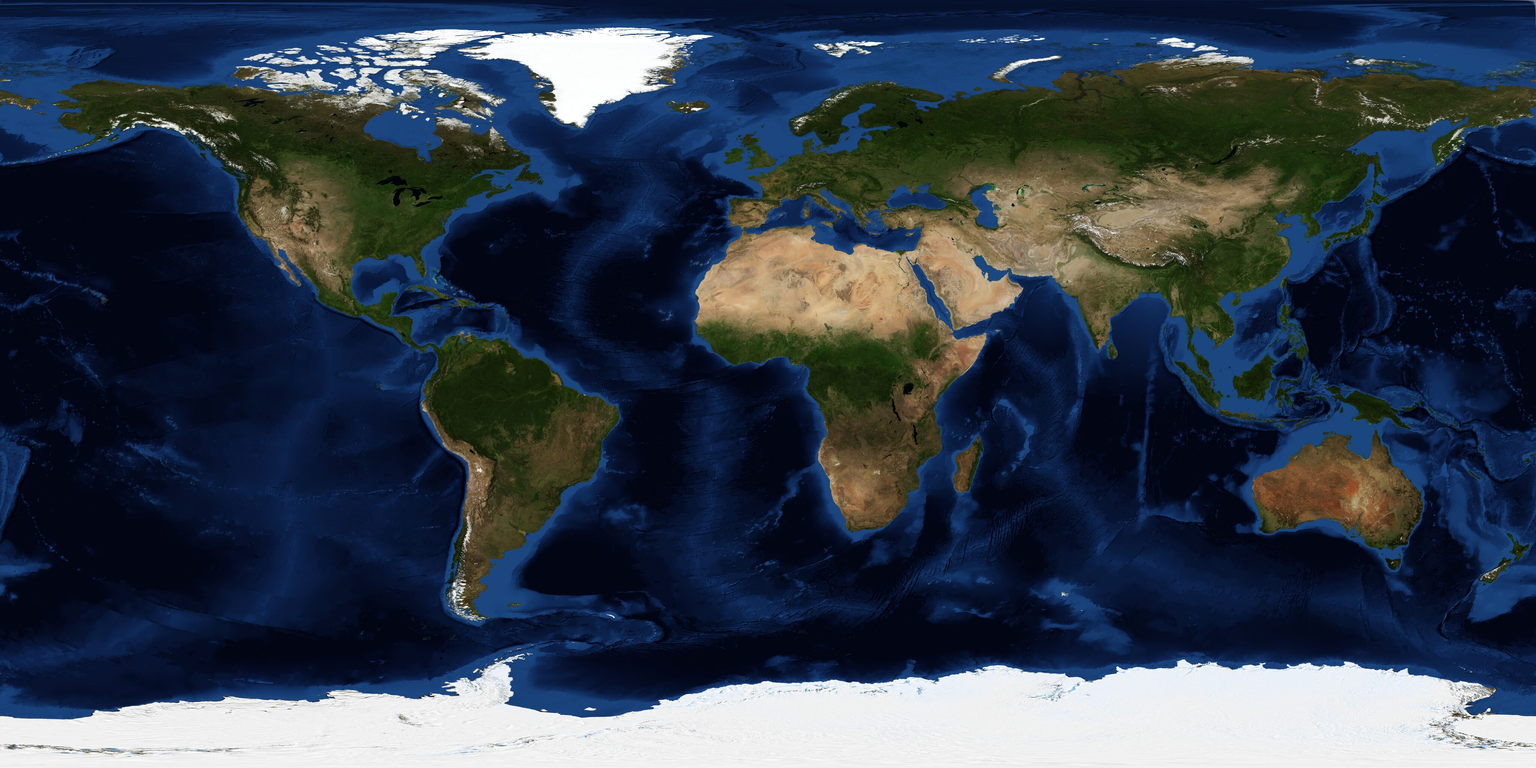
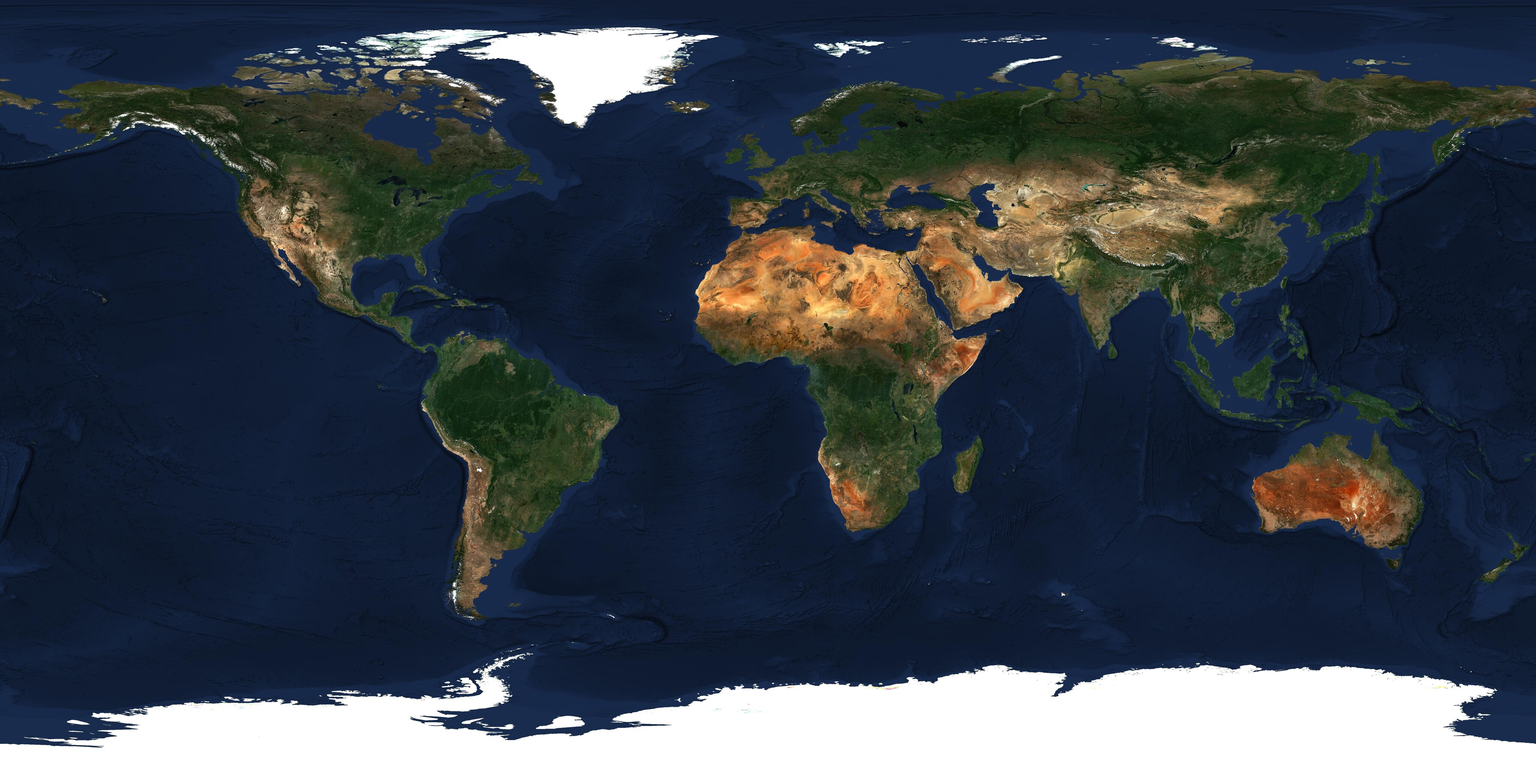
Use 2025 satellite imagery
Replace the 2004 Blue Marble textures with EOxCloudless 2025
(Sentinel-2 cloudless by EOX, CC BY-NC-SA 4.0), stitched from EOX's
WGS84 tiles at zoom 4 into the same 8K and 4K equirectangular files.
Credit the imagery in the How to play sheet and the README, and note
the non-commercial licence.

Claude-Session: https://claude.ai/code/session_01Ayuy4NdZSNdmcQUYMbeMrR

diff --git a/index.html b/index.html
@@ -113,6 +113,7 @@
         <tbody></tbody>
       </table>
       <p class="fine">Land in the right country and you get at least 25 points, rising with accuracy up to 80. A new set of courses tees off at midnight, your local time.</p>
+      <p class="credit">Satellite imagery: <a href="https://cloudless.eox.at" target="_blank" rel="noopener">EOxCloudless 2025</a> by EOX IT Services GmbH, containing modified Copernicus Sentinel data 2025, licensed <a href="https://creativecommons.org/licenses/by-nc-sa/4.0/" target="_blank" rel="noopener">CC BY-NC-SA 4.0</a>.</p>
       <button class="btn primary" type="button" data-close autofocus>Tee off</button>
     </dialog>
 

diff --git a/src/style.css b/src/style.css
@@ -832,6 +832,16 @@ button {
   margin: 14px 0 16px;
 }
 
+.credit {
+  margin: -6px 0 16px;
+  font-size: 12px;
+  color: var(--ink-2);
+}
+
+.credit a {
+  color: inherit;
+}
+
 .sheet > .btn {
   width: 100%;
 }

diff --git a/README.md b/README.md
@@ -64,6 +64,6 @@ Changing the course list reshuffles the daily schedule from the next puzzle on. 
 
 ## Data
 
-- Satellite imagery: [NASA Visible Earth, Blue Marble Next Generation](https://visibleearth.nasa.gov/collection/1484/blue-marble) (July 2004, with topography and bathymetry; public domain), resized to 4K (`src/assets`) and 8K (`public/textures`, loaded on desktops). Without WebGL the globe falls back to flat vector colours.
+- Satellite imagery: [EOxCloudless 2025](https://cloudless.eox.at) (Sentinel-2 cloudless) by EOX IT Services GmbH, containing modified Copernicus Sentinel data 2025, licensed [CC BY-NC-SA 4.0](https://creativecommons.org/licenses/by-nc-sa/4.0/). It's stitched from EOX's WGS84 tiles at zoom 4 into an 8K equirectangular texture (`public/textures`, loaded on desktops) and a 4K copy (`src/assets`). **The licence is non-commercial**: using GolfTap commercially (ads, paid features) needs a commercial licence from EOX or different imagery. Without WebGL the globe falls back to flat vector colours.
 - Map: [Natural Earth](https://www.naturalearthdata.com/) via [world-atlas](https://github.com/topojson/world-atlas) (countries, 50m/110m), [us-atlas](https://github.com/topojson/us-atlas) (US states) and [geo-maps](https://github.com/simonepri/geo-maps) (lakes). All are bundled, so no map API keys or tile servers are needed.
 - Course coordinates were compiled by hand and are accurate to within a few kilometres. Corrections are welcome.
